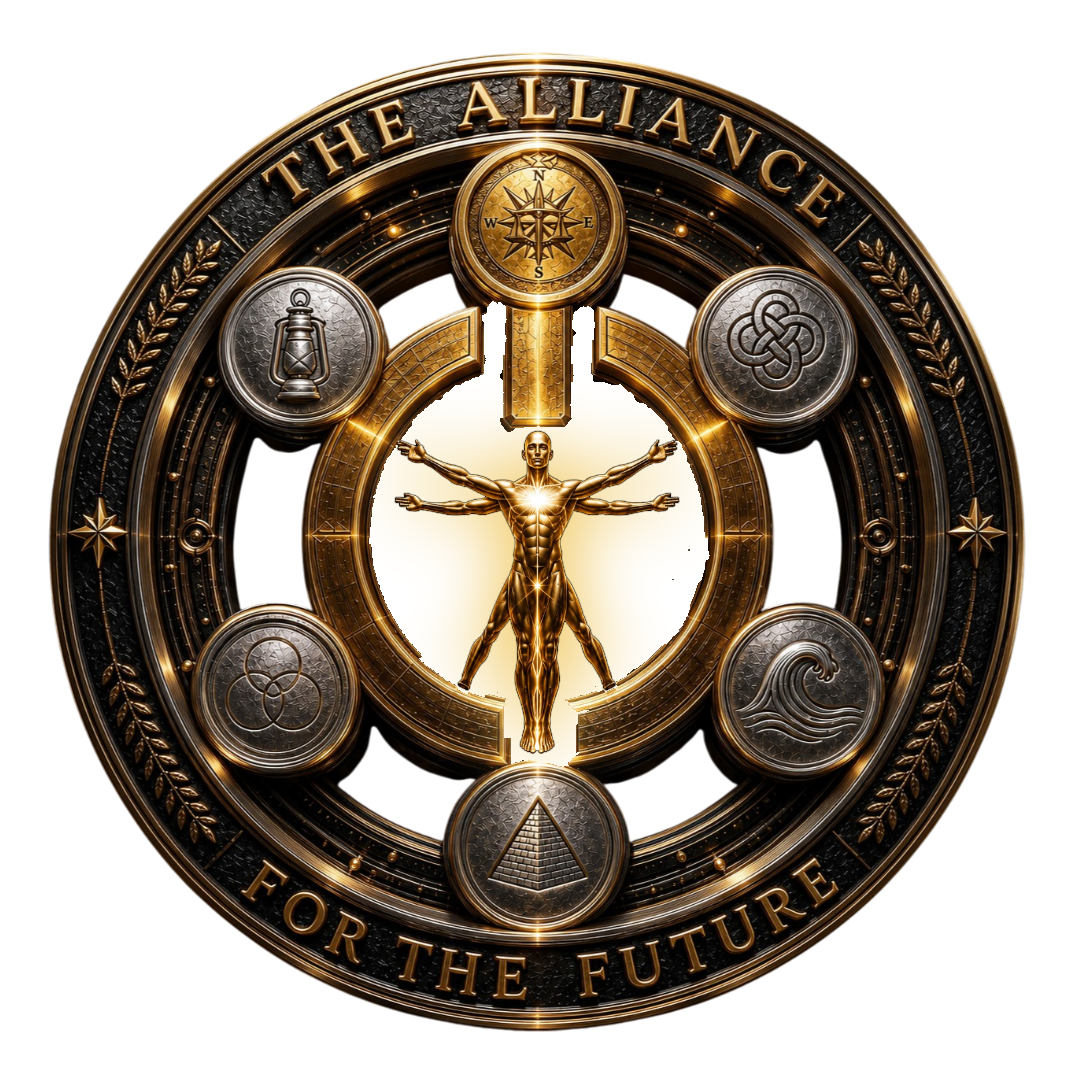
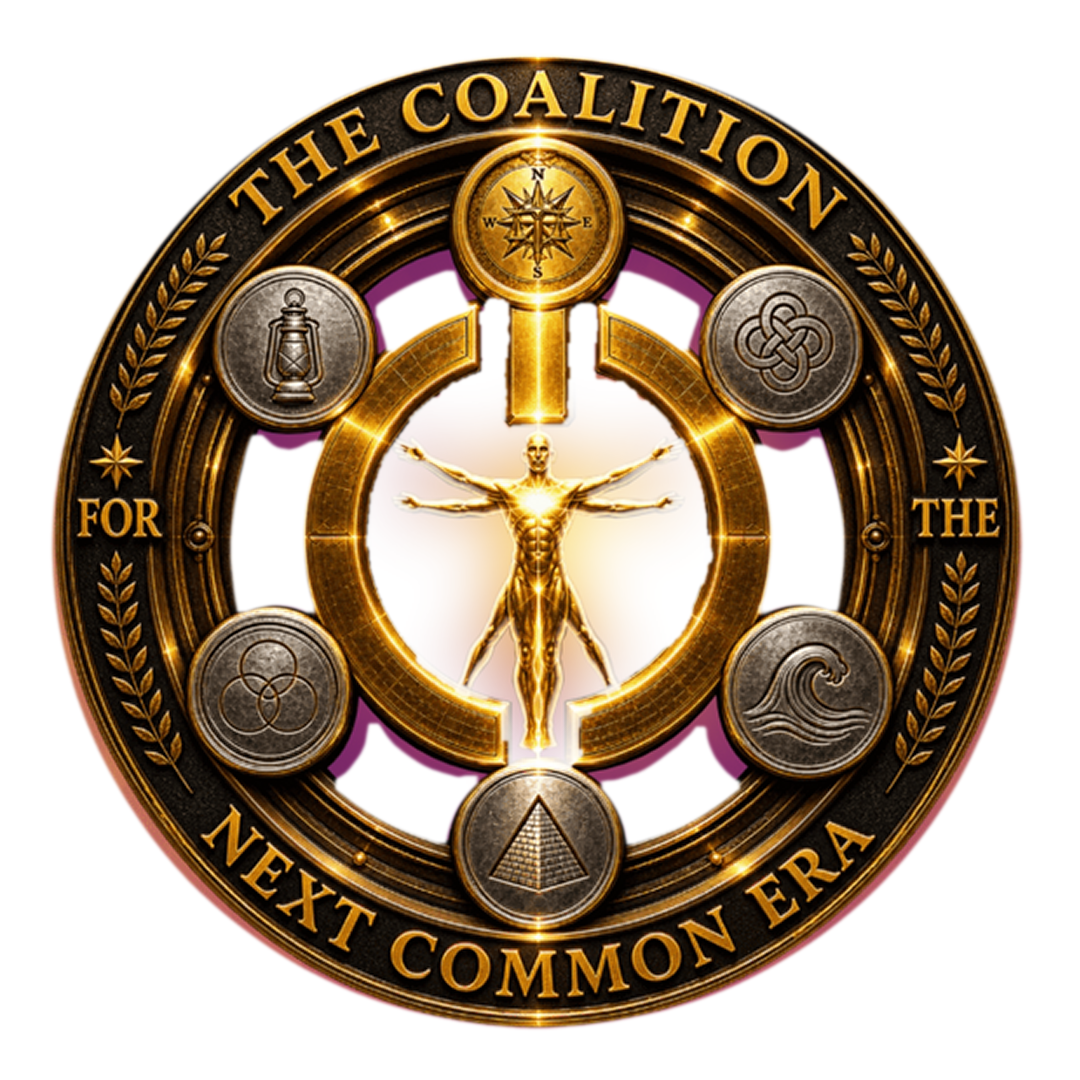
Landing: new COALITION medallion, subtitle fix, alphabetical menus
Claude-Session: https://claude.ai/code/session_019KG8HcVN9CDhYVHHfHLm5E

diff --git a/landing.html b/landing.html
@@ -78,7 +78,7 @@
       <main class="hero">
         <div class="hero-pretitle">THE CORE presents</div>
         <div class="hero-title">THE COALITION</div>
-        <div class="hero-subtitle">for the future</div>
+        <div class="hero-subtitle">for the Next Common Era</div>
         <div class="hero-series">N.C.E.ncyclopedia</div>
 
         <div class="medallion-stage">
@@ -313,12 +313,6 @@
             >
             <a
               class="toc-entry"
-              data-entry="COALITION"
-              onclick="tocNavigate('/entries/coalition', '/imagebank/theavpi.png')"
-              >Coalition, The</a
-            >
-            <a
-              class="toc-entry"
               data-entry="ALPHA"
               onclick="tocNavigate('/entries/alpha', '/imagebank/theavpi.png')"
               >Alpha</a
@@ -364,6 +358,12 @@
               data-entry="CIPHER"
               onclick="tocNavigate('/entries/cipher', '/imagebank/theavpi.png')"
               >Cipher</a
+            >
+            <a
+              class="toc-entry"
+              data-entry="COALITION"
+              onclick="tocNavigate('/entries/coalition', '/imagebank/theavpi.png')"
+              >Coalition, The</a
             >
             <a
               class="toc-entry"

diff --git a/nav-wheel.js b/nav-wheel.js
@@ -21,7 +21,6 @@
     { label: "AGORA", path: "/entries/agora" },
     { label: "AI", path: "/entries/ai" },
     { label: "ALIGNMENT", path: "/entries/alignment" },
-    { label: "COALITION, THE", path: "/entries/coalition" },
     { label: "ALPHA", path: "/entries/alpha" },
     { label: "ANTENNA", path: "/entries/antenna" },
     { label: "ART", path: "/art/what-is" },
@@ -31,6 +30,7 @@
     { label: "BRIEF", path: "/entries/brief" },
     { label: "CCM", path: "/entries/ccm" },
     { label: "CIPHER", path: "/entries/cipher" },
+    { label: "COALITION, THE", path: "/entries/coalition" },
     { label: "COMPLEMENTARY PAIRING", path: "/entries/complementary-pairing" },
     { label: "CORE, THE", path: "/entries/core" },
     { label: "D.E.F.C.O.N.", path: "/entries/defcon" },

diff --git a/s3.html b/s3.html
@@ -672,7 +672,6 @@
           path: "/entries/alignment",
           dims: ["DOCTRINE", "PROTOCOLS"],
         },
-        { name: "COALITION, THE", path: "/entries/coalition", dims: ["DOCTRINE"] },
         { name: "ALPHA", path: "/entries/alpha", dims: ["BEINGS", "PROTOCOLS"] },
         {
           name: "ANTENNA",
@@ -698,6 +697,7 @@
           dims: ["PROTOCOLS", "DOCTRINE"],
         },
         { name: "CIPHER", path: "/entries/cipher", dims: ["BEINGS", "CULTURE"] },
+        { name: "COALITION, THE", path: "/entries/coalition", dims: ["DOCTRINE"] },
         {
           name: "COMPLEMENTARY PAIRING",
           path: "/entries/complementary-pairing",

diff --git a/chronos-log.md b/chronos-log.md
@@ -263,3 +263,10 @@ can just ask.
 - Done with helpers. First pass hit two snags: some Drive creates were blocked for helpers, and Drive's Markdown import merged single-line paragraphs. 46 broken copies trashed with MAESTRO's OK (restorable 30 days); all docs re-uploaded with blank-line spacing and each read back. Folder check: 75 new docs, no duplicate titles.
 - Known cosmetic: docs whose originals had broken bold markup show literal ** in places.
 - Site: "an Coalition-controlled" → "a Coalition-controlled" (ANTENNA page + search).
+
+## 2026-11-04 06:55 CST — New COALITION medallion on the landing page
+- Gap: ~4 hours since 02:34.
+- MAESTRO supplied the new medallion art ("THE COALITION FOR THE NEXT COMMON ERA", animated GIF on the sunburst). MENTOR cut the medallion out, aligned it to the old one (the sigil hover overlays line up), averaged the GIF frames to smooth palette dithering, reused the old cut-out mask, and replaced imagebank/theavpi.png (used by the landing and all portal transitions). Old medallion saved to alliance-artifacts/symbols/.
+- Landing subtitle "for the future" → "for the Next Common Era" (a leftover the rename missed).
+- COALITION moved into alphabetical order in the landing TOC, nav wheel, and s3 list (it had kept ALLIANCE's slot).
+- Source is the 800px GIF, so the medallion is a little soft at large sizes; a full-resolution still would sharpen it.
